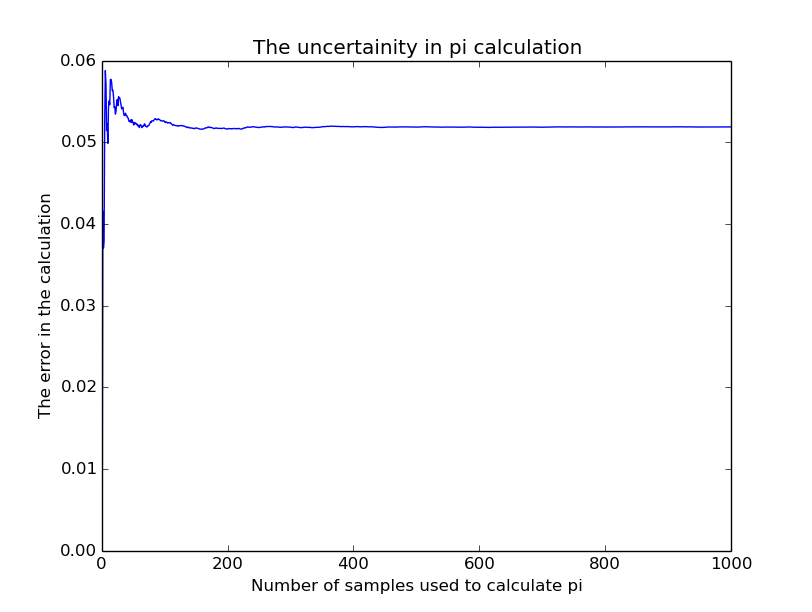
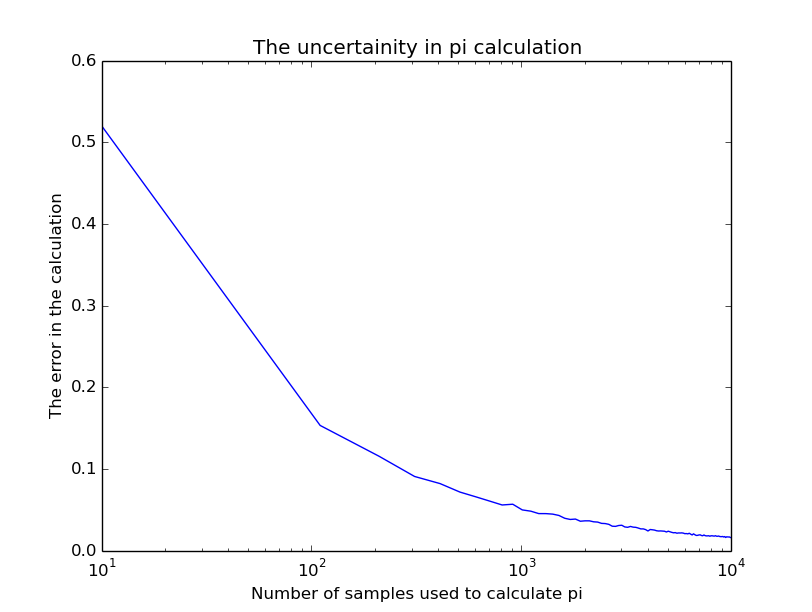
gallery

diff --git a/uncertainity_in_pi_calculation.py b/uncertainity_in_pi_calculation.py
@@ -1,24 +1,38 @@
-from Calculation_of_pi import *
-# the uncertainity in the calculation
 
-def pi_gen():
-	l =[]
-	for i in range(1000):
-		l.append(pi())
-	return l
-l3 = []
+# the uncertainity in the calculation
+import numpy as np
+import matplotlib.pylab as plt
+def pi(n):
+    a = 0
+    for i in range(n):
+        x = np.random.uniform(-1,1)
+        y = np.random.uniform(-1,1)
+        if x**2 +y**2 <=1:
+            a += 1
+    return (a/n)*4
+n = []    
+for i in range(10,10010,100):
+	n.append(i) 
+print(n)	
+	   
 sigma = []
-ji = []
-for j in range(1000):
-	print(j)
-	for i in range(j):
-		l3.append(pi())
+for i in n:
+	print(i)
+	l3 = []
+	for j in range(1000):
+		l3.append(pi(i))
 	sig = np.std(l3)
-	ji.append(j)
 	sigma.append(sig)
-plt.plot(ji,sigma, 'blue')
+#plt.plot(n,sigma, 'blue')
+#plt.ylabel("The error in the calculation")
+#plt.xlabel("Number of samples used to calculate pi")
+#plt.title('The uncertainity in pi calculation')
+#plt.show()
+
+plt.semilogx(n, sigma, 'blue')
 plt.ylabel("The error in the calculation")
 plt.xlabel("Number of samples used to calculate pi")
 plt.title('The uncertainity in pi calculation')
 plt.show()
+
 
